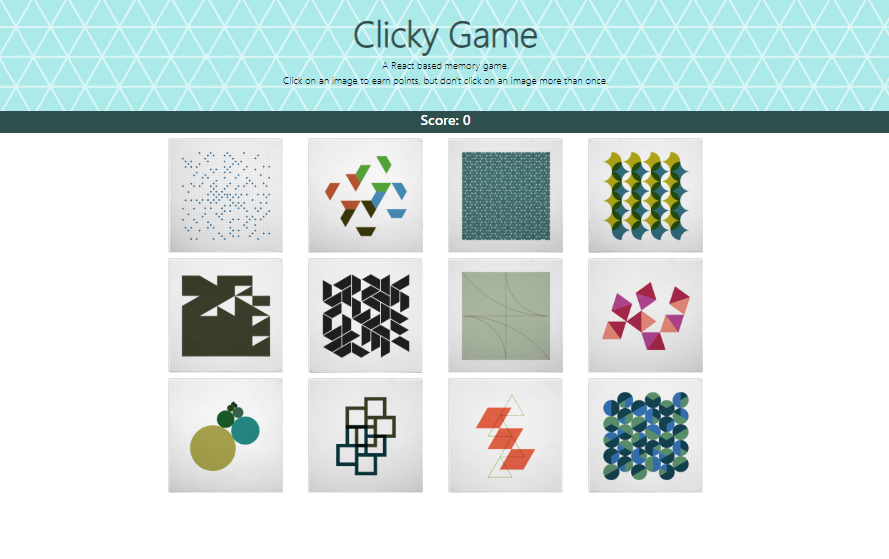
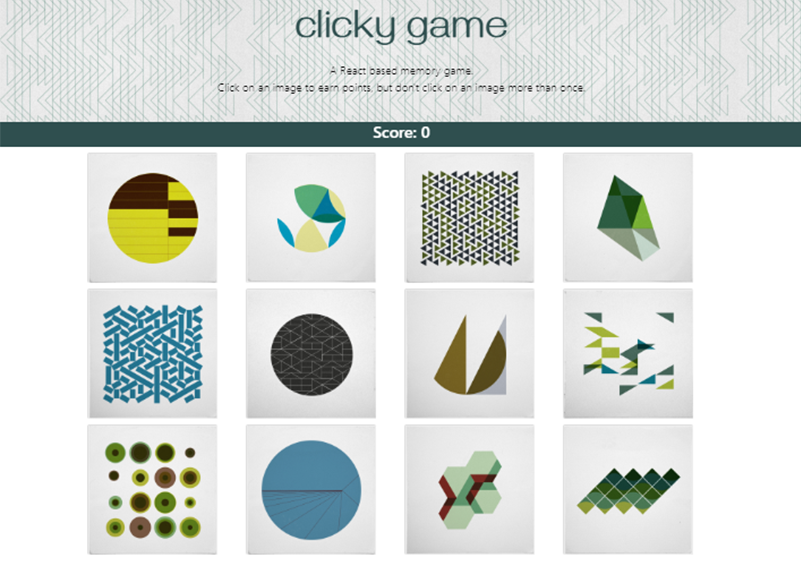
adding project images. adjusted image ratio and file size of bamazon gifs

diff --git a/index.html b/index.html
@@ -577,27 +577,7 @@
                             </div>
                         </div>
                     </div>
-                     <!--Portfolio Item-->
-                     <div class="col-lg-4 col-md-6 item application development">
-                        <div class="portfolio-item">
-                            <img src="assets/images/portfolio/Landing-Page-Graphic-3.gif" alt="artPortfolio">
-                            <div class="item-overlay">
-                                <h6>Graphic Art Portfolio<br>Website</h6>
-                                <div class="icons">
-                                    <span class="icon">
-                                        <span class="port-link">
-                                        <a href="assets/images/portfolio/Landing-Page-Graphic-3.gif">
-                                            <i class="fa fa-search"></i>
-                                        </a>
-                                        </span>
-                                        <a href="myPortfolio-project-details.html">
-                                           <i class="fas fa-link"></i>
-                                        </a>
-                                    </span>
-                                </div>
-                            </div>
-                        </div>
-                    </div>
+                     
                       <!--Portfolio Item-->
                       <div class="col-lg-4 col-md-6 item application development">
                         <div class="portfolio-item">
@@ -633,6 +613,48 @@
                                         </a>
                                         </span>
                                         <a href="mongoScraper-project-details.html">
+                                           <i class="fas fa-link"></i>
+                                        </a>
+                                    </span>
+                                </div>
+                            </div>
+                        </div>
+                    </div>
+                     <!--Portfolio Item-->
+                     <div class="col-lg-4 col-md-6 item application development">
+                        <div class="portfolio-item">
+                            <img src="assets/images/portfolio/clickyGame.PNG" alt="clickyGame">
+                            <div class="item-overlay">
+                                <h6>Clicky Game<br>Application</h6>
+                                <div class="icons">
+                                    <span class="icon">
+                                        <span class="port-link">
+                                        <a href="assets/images/portfolio/clickyGame.PNG">
+                                            <i class="fa fa-search"></i>
+                                        </a>
+                                        </span>
+                                        <a href="clickyGame-project-details.html">
+                                           <i class="fas fa-link"></i>
+                                        </a>
+                                    </span>
+                                </div>
+                            </div>
+                        </div>
+                    </div>
+                    <!--Portfolio Item-->
+                    <div class="col-lg-4 col-md-6 item application development">
+                        <div class="portfolio-item">
+                            <img src="assets/images/portfolio/Landing-Page-Graphic-3.gif" alt="artPortfolio">
+                            <div class="item-overlay">
+                                <h6>Graphic Art Portfolio<br>Website</h6>
+                                <div class="icons">
+                                    <span class="icon">
+                                        <span class="port-link">
+                                        <a href="assets/images/portfolio/Landing-Page-Graphic-3.gif">
+                                            <i class="fa fa-search"></i>
+                                        </a>
+                                        </span>
+                                        <a href="myPortfolio-project-details.html">
                                            <i class="fas fa-link"></i>
                                         </a>
                                     </span>

diff --git a/bamazon-project-details.html b/bamazon-project-details.html
@@ -101,7 +101,7 @@
                 <div class="row">
                     <div class="col-md-6">
                        <div class="project-img" id="project">
-                          <img class="screenshot" src="assets/images/portfolio/customer.gif" alt="Bamazon">
+                          <img class="screenshot" src="assets/images/portfolio/customer1.gif" alt="Bamazon">
                        </div>
                     </div>
                     <div class="col-md-6">
